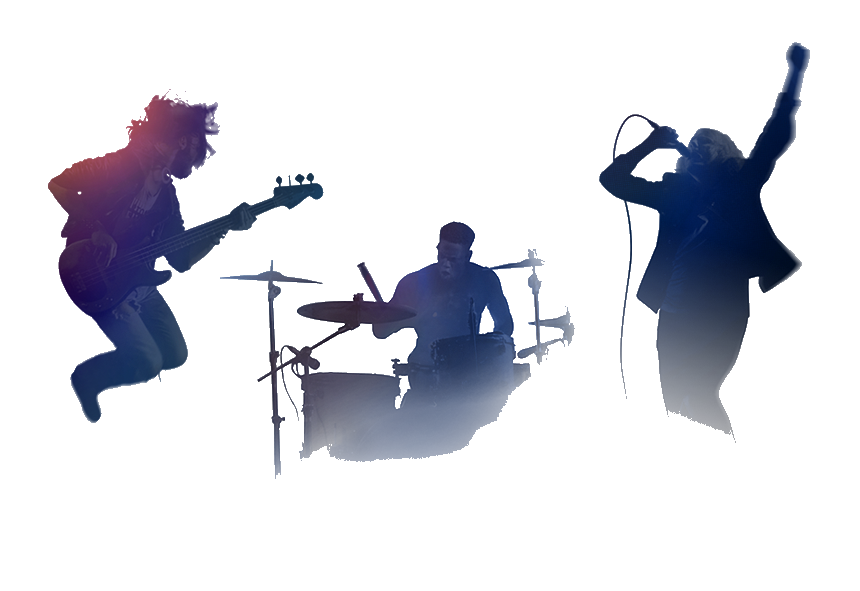
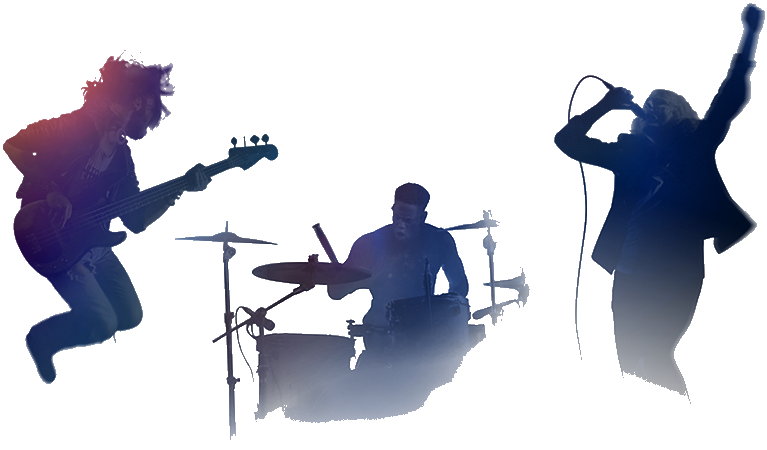
updated doremeet section and made navbar scalable

Changed region(s): [[0.2399, 0.3733, 0.6897, 0.9644], [0.6897, 0.0, 1.0, 0.8711], [0.0, 0.1244, 0.3898, 0.8711]]

diff --git a/src/styles/index.module.scss b/src/styles/index.module.scss
@@ -1,6 +1,6 @@
 @use 'theme' as *;
 @import url('https://fonts.googleapis.com/css2?family=Lato:wght@700&display=swap');
-@import url('https://fonts.googleapis.com/css2?family=Montserrat:wght@300&display=swap');
+@import url('https://fonts.googleapis.com/css2?family=Poppins:wght@300&display=swap');
 
 body {
   background-color: #FAFAFA;
@@ -8,12 +8,15 @@ body {
   height: 100vh;
 }
 
+.padding {
+  padding-left: 40vh;
+  padding-right: 40vh;
+}
+
 .home_container {
   display: flex;
   flex-direction: column;
   font-family: 'Lato', sans-serif;
-  padding-left: 400px;
-  padding-right: 400px;
   padding-top: 150px;
   height: 300px;
 }
@@ -39,33 +42,58 @@ body {
 
 .doremeet_container {
   background-color: #eeeeee;
-  height: 540px;
-  padding-left: 400px;
-  padding-right: 400px;
   display: flex;
 }
 
 .image_container {
-  max-width: 50%;
-  max-height: 540px;
+  padding-top: 30px;
   display: flex;
   flex-direction: column;
   justify-content: center;
+  width: 50%;
+  height: 100%;
 }
 
 .music {
-  padding-top: 50px;
-  height: 250px;
+  height: 40%;
   width: auto;
 }
 
+.band {
+  width: auto;
+  height: 60%;
+}
+
 .description_container {
-  max-width: 50%;
+  width: 50%;
   padding-left: 100px;
-  padding-top: 75px;
-  font-family: 'Montserrat', sans-serif;
+  font-family: 'Poppins', sans-serif;
+  display: flex;
+  flex-direction: column;
+  min-height: 100%;
+  align-content: center;
 }
 
 .project_title {
   font-size: 36px;
+  margin-bottom: 10px;
+  color: #424242;
+}
+
+.project_technology_title {
+  font-size: 24px;
+  margin-bottom: 10px;
+  color: #424242;
+}
+
+.project_description {
+  line-height: 1.5;
+  margin-bottom: 40px;
+  color: #616161;
+}
+
+.project_technology {
+  display: flex;
+  gap: 20px;
+  color: #2296f3;
 }

diff --git a/src/pages/index.js b/src/pages/index.js
@@ -10,7 +10,7 @@ const IndexPage = () => {
     <body id="top">
       <main>
         <Navbar />
-        <div className={styles.home_container}>
+        <div className={`${styles.home_container} ${styles.padding}`}>
           <div>
             <h1 className={styles.home_h1}>
               HI, I'M <span className={styles.home_highlight}>VINCENT</span>.
@@ -22,13 +22,22 @@ const IndexPage = () => {
             </h2>
           </div>
         </div>
-        <div className={styles.doremeet_container}>
+        <div className={`${styles.doremeet_container} ${styles.padding}`}>
           <div className={styles.image_container}>
             <img src={music} alt="music" className={styles.music}></img>
-            <img src={band} alt="band"></img>
+            <img src={band} alt="band" className={styles.band}></img>
           </div>
           <div className={styles.description_container}>
             <span className={styles.project_title}>DoReMeet</span>
+            <span className={styles.project_description}>
+              The first application I built using ReactJS with a team of six as front-end engineer.
+              This application was created to link artists by genre and meeting preference (virtual or non virtual).
+            </span>
+            <span className={styles.project_technology_title}>Technology</span>
+            <div className={styles.project_technology}>
+              <span>React.js</span>
+              <span>Node.js</span>
+            </div>
           </div>
         </div>
       </main>

diff --git a/src/components/Navbar.js b/src/components/Navbar.js
@@ -4,7 +4,7 @@ import PDF from '../resume/Vincent_Tse_Resume.pdf';
 
 const Navbar = () => {
   return (
-    <div className={styles.navbar}>
+    <div className={`${styles.navbar} ${styles.padding}`}>
       <div className={styles.name}>
         <a href="#top" className={styles.link}>VINCENT TSE</a>
       </div>

diff --git a/src/styles/navbar.module.scss b/src/styles/navbar.module.scss
@@ -2,14 +2,17 @@
 
 .navbar {
   height: 60px;
-  padding-left: 400px;
-  padding-right: 400px;
   display: flex;
   justify-content: space-between;
   align-items: center;
   background-color: #212121;
   position: sticky;
   top: 0;
+}
+
+.padding {
+  padding-left: 40vh;
+  padding-right: 40vh;
 }
 
 .name {
